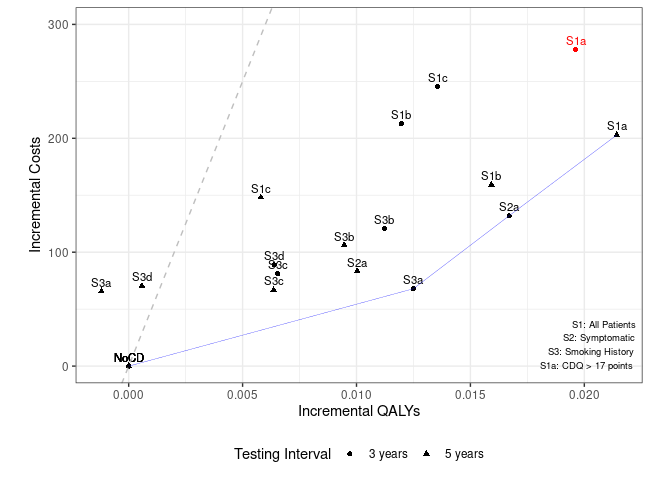
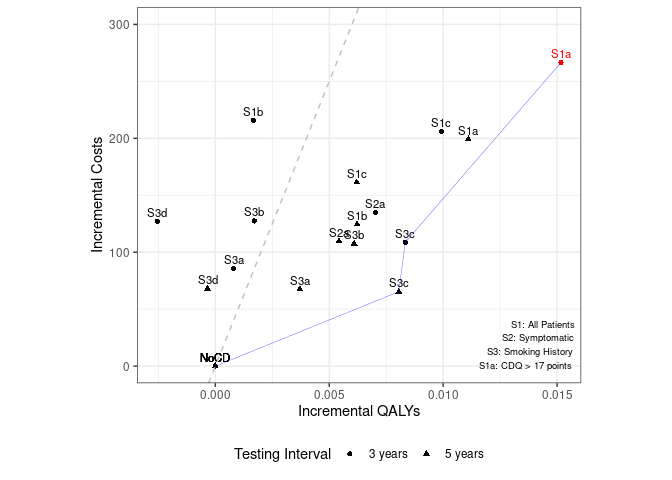
feat(reproduction): re-ran Process_Model_Results with 5e5 model results

diff --git a/reproduction/scripts/Process_Model_Results.md b/reproduction/scripts/Process_Model_Results.md
@@ -1,6 +1,6 @@
 Process Model Results
 ================
-06 September, 2024
+10 September, 2024
 
 This file processes the model results so they match up as closely as
 possible to those in the publication.
@@ -67,30 +67,30 @@ rbind(ceplane_3y, ceplane_5y) %>%
 
 <div class="kable-table">
 
-| Scenario  | Agents | PropAgents |       Cost | CostpAgent | CostpAgentExcluded | CostpAgentAll |    QALY | QALYpAgent | QALYpAgentExcluded | QALYpAgentAll | IncrementalCosts | IncrementalQALY |    ICERAdj |       ICER |        INMB | Interval |
-|:----------|-------:|-----------:|-----------:|-----------:|-------------------:|--------------:|--------:|-----------:|-------------------:|--------------:|-----------------:|----------------:|-----------:|-----------:|------------:|:---------|
-| S1NoCDAvg | 743240 |  1.0000000 | 1599466443 |   2152.020 |              0.000 |      2152.020 | 9319095 |   12.53848 |            0.00000 |      12.53848 |          0.00000 |       0.0000000 |         NA |         NA |    0.000000 | 3 years  |
-| S1NoCDAvg | 743240 |  1.0000000 | 1599466443 |   2152.020 |              0.000 |      2152.020 | 9319095 |   12.53848 |            0.00000 |      12.53848 |          0.00000 |       0.0000000 |         NA |         NA |    0.000000 | 5 years  |
-| S1a       | 743762 |  1.0000000 | 1807321435 |   2429.973 |              0.000 |      2429.973 | 9340234 |   12.55809 |            0.00000 |      12.55809 |        277.95257 |       0.0196138 |  14171.293 |  13791.124 |  702.736263 | 3 years  |
-| S1a       | 744354 |  1.0000000 | 1752926443 |   2354.963 |              0.000 |      2354.963 | 9349016 |   12.55991 |            0.00000 |      12.55991 |        202.94319 |       0.0214250 |   9472.245 |   9739.527 |  868.308574 | 5 years  |
-| S1b       | 744327 |  1.0000000 | 1760175403 |   2364.788 |              0.000 |      2364.788 | 9341640 |   12.55045 |            0.00000 |      12.55045 |        212.76756 |       0.0119708 |  17773.880 |  17035.376 |  385.772441 | 3 years  |
-| S1b       | 744122 |  1.0000000 | 1719863654 |   2311.266 |              0.000 |      2311.266 | 9342006 |   12.55440 |            0.00000 |      12.55440 |        159.24546 |       0.0159203 |  10002.688 |  10379.531 |  636.767913 | 5 years  |
-| S1c       | 744352 |  1.0000000 | 1784618220 |   2397.546 |              0.000 |      2397.546 | 9343139 |   12.55204 |            0.00000 |      12.55204 |        245.52585 |       0.0135630 |  18102.668 |  17438.189 |  432.622386 | 3 years  |
-| S1c       | 744408 |  1.0000000 | 1712210641 |   2300.097 |              0.000 |      2300.097 | 9338065 |   12.54428 |            0.00000 |      12.54428 |        148.07681 |       0.0058020 |  25521.605 |  27838.899 |  142.024090 | 5 years  |
-| S2NoCD    | 441551 |  0.5940894 | 1172222127 |   2654.783 |           1416.175 |      2152.019 | 5415116 |   12.26385 |           12.94041 |      12.53847 |          0.00000 |       0.0000000 |         NA |         NA |   -0.420303 | 3 years  |
-| S2NoCD    | 441928 |  0.5945966 | 1179924911 |   2669.948 |           1392.382 |      2152.019 | 5422979 |   12.27118 |           12.93050 |      12.53847 |          0.00000 |       0.0000000 |         NA |         NA |   -0.420303 | 5 years  |
-| S2a       | 441650 |  0.5942226 | 1270487699 |   2876.684 |           1416.175 |      2284.043 | 5428810 |   12.29211 |           12.94041 |      12.55517 |        132.02380 |       0.0167010 |   7905.166 |   7852.913 |  702.603533 | 3 years  |
-| S2a       | 441121 |  0.5935108 | 1240789795 |   2812.811 |           1392.382 |      2235.422 | 5419996 |   12.28687 |           12.93050 |      12.54850 |         83.40312 |       0.0100269 |   8317.911 |   9106.416 |  417.523169 | 5 years  |
-| S3NoCD    | 345450 |  0.4647893 | 1009751817 |   2923.004 |           1482.477 |      2152.019 | 3878935 |   11.22864 |           13.67596 |      12.53847 |          0.00000 |       0.0000000 |         NA |         NA |   -0.420303 | 3 years  |
-| S3NoCD    | 344713 |  0.4637977 |  996287204 |   2890.193 |           1513.522 |      2152.019 | 3873367 |   11.23650 |           13.66464 |      12.53847 |          0.00000 |       0.0000000 |         NA |         NA |   -0.420303 | 5 years  |
-| S3a       | 344340 |  0.4632958 | 1058616300 |   3074.334 |           1482.477 |      2219.978 | 3873043 |   11.24773 |           13.67596 |      12.55097 |         67.95925 |       0.0124963 |   5438.352 |   7929.873 |  556.435226 | 3 years  |
-| S3a       | 344831 |  0.4639565 | 1045268642 |   3031.249 |           1513.522 |      2217.681 | 3874091 |   11.23475 |           13.66464 |      12.53728 |         65.66229 |      -0.0011957 | -54917.558 | -80779.766 | -125.865199 | 5 years  |
-| S3b       | 344561 |  0.4635932 | 1098068656 |   3186.863 |           1482.477 |      2272.619 | 3875123 |   11.24655 |           13.67596 |      12.54970 |        120.60002 |       0.0112284 |  10740.594 |  14735.648 |  440.401243 | 3 years  |
-| S3b       | 344259 |  0.4631869 | 1074556989 |   3121.362 |           1513.522 |      2258.252 | 3874191 |   11.25371 |           13.66464 |      12.54793 |        106.23342 |       0.0094562 |  11234.316 |  13429.701 |  366.153959 | 5 years  |
-| S3c       | 345148 |  0.4643830 | 1069636233 |   3099.065 |           1482.477 |      2233.193 | 3879671 |   11.24060 |           13.67596 |      12.54502 |         81.17449 |       0.0065462 |  12400.176 |  14726.663 |  245.717029 | 3 years  |
-| S3c       | 344359 |  0.4633214 | 1045425869 |   3035.860 |           1513.522 |      2218.854 | 3873257 |   11.24773 |           13.66464 |      12.54483 |         66.83501 |       0.0063609 |  10507.238 |  12968.139 |  250.787397 | 5 years  |
-| S3d       | 344912 |  0.4640654 | 1075013391 |   3116.776 |           1482.477 |      2240.899 | 3876329 |   11.23860 |           13.67596 |      12.54487 |         88.87997 |       0.0063928 |  13903.144 |  19458.355 |  230.339544 | 3 years  |
-| S3d       | 343958 |  0.4627819 | 1047428798 |   3045.223 |           1513.522 |      2222.365 | 3863483 |   11.23243 |           13.66464 |      12.53905 |         70.34646 |       0.0005819 | 120887.662 | -38068.150 |  -41.670964 | 5 years  |
+| Scenario  | Agents | PropAgents |      Cost | CostpAgent | CostpAgentExcluded | CostpAgentAll |    QALY | QALYpAgent | QALYpAgentExcluded | QALYpAgentAll | IncrementalCosts | IncrementalQALY |     ICERAdj |       ICER |       INMB | Interval |
+|:----------|-------:|-----------:|----------:|-----------:|-------------------:|--------------:|--------:|-----------:|-------------------:|--------------:|-----------------:|----------------:|------------:|-----------:|-----------:|:---------|
+| S1NoCDAvg | 371714 |  1.0000000 | 800943990 |   2154.732 |              0.000 |      2154.732 | 4662659 |   12.54367 |            0.00000 |      12.54367 |          0.00000 |       0.0000000 |          NA |         NA |    0.00000 | 3 years  |
+| S1NoCDAvg | 371714 |  1.0000000 | 800943990 |   2154.732 |              0.000 |      2154.732 | 4662659 |   12.54367 |            0.00000 |      12.54367 |          0.00000 |       0.0000000 |          NA |         NA |    0.00000 | 5 years  |
+| S1a       | 371902 |  1.0000000 | 900481317 |   2421.287 |              0.000 |      2421.287 | 4670660 |   12.55885 |            0.00000 |      12.55885 |        266.55473 |       0.0151739 |   17566.697 |   16195.98 |  492.13863 | 3 years  |
+| S1a       | 371757 |  1.0000000 | 875098848 |   2353.954 |              0.000 |      2353.954 | 4667327 |   12.55478 |            0.00000 |      12.55478 |        199.22209 |       0.0111061 |   17938.013 |   20430.79 |  356.08493 | 5 years  |
+| S1b       | 372140 |  1.0000000 | 882188218 |   2370.582 |              0.000 |      2370.582 | 4668622 |   12.54534 |            0.00000 |      12.54534 |        215.84971 |       0.0016653 |  129616.173 |   67189.32 | -132.58475 | 3 years  |
+| S1b       | 372238 |  1.0000000 | 848458397 |   2279.344 |              0.000 |      2279.344 | 4671548 |   12.54989 |            0.00000 |      12.54989 |        124.61202 |       0.0062224 |   20026.206 |   25910.57 |  186.51036 | 5 years  |
+| S1c       | 371919 |  1.0000000 | 878053058 |   2360.872 |              0.000 |      2360.872 | 4668922 |   12.55360 |            0.00000 |      12.55360 |        206.13991 |       0.0099270 |   20765.538 |   18321.20 |  290.21108 | 3 years  |
+| S1c       | 371786 |  1.0000000 | 861061064 |   2316.013 |              0.000 |      2316.013 | 4665869 |   12.54988 |            0.00000 |      12.54988 |        161.28077 |       0.0062057 |   25989.087 |   34018.45 |  149.00479 | 5 years  |
+| S2NoCD    | 219759 |  0.5912045 | 592355610 |   2695.478 |           1372.698 |      2154.732 | 2696622 |   12.27081 |           12.93828 |      12.54367 |          0.00000 |       0.0000000 |          NA |         NA |    0.00000 | 3 years  |
+| S2NoCD    | 220397 |  0.5929209 | 590082859 |   2677.363 |           1393.506 |      2154.732 | 2704639 |   12.27167 |           12.93985 |      12.54367 |          0.00000 |       0.0000000 |          NA |         NA |    0.00000 | 5 years  |
+| S2a       | 221233 |  0.5951699 | 644478701 |   2913.122 |           1372.698 |      2289.512 | 2718304 |   12.28707 |           12.93828 |      12.55070 |        134.78032 |       0.0070259 |   19183.268 |   13391.77 |  216.51625 | 3 years  |
+| S2a       | 220997 |  0.5945350 | 631718348 |   2858.493 |           1393.506 |      2264.492 | 2714422 |   12.28262 |           12.93985 |      12.54910 |        109.76015 |       0.0054317 |   20207.186 |   16541.19 |  161.82679 | 5 years  |
+| S3NoCD    | 172154 |  0.4631356 | 494403150 |   2871.866 |           1536.084 |      2154.732 | 1934054 |   11.23444 |           13.67310 |      12.54367 |          0.00000 |       0.0000000 |          NA |         NA |    0.00000 | 3 years  |
+| S3NoCD    | 172607 |  0.4643543 | 500398655 |   2899.064 |           1509.466 |      2154.732 | 1937979 |   11.22769 |           13.68450 |      12.54367 |          0.00000 |       0.0000000 |          NA |         NA |    0.00000 | 5 years  |
+| S3a       | 172660 |  0.4644969 | 527017592 |   3052.343 |           1536.084 |      2240.382 | 1941269 |   11.24331 |           13.67310 |      12.54447 |         85.64968 |       0.0007989 |  107210.069 |   20354.54 |  -45.70489 | 3 years  |
+| S3a       | 172800 |  0.4648735 | 525843604 |   3043.076 |           1509.466 |      2222.401 | 1941999 |   11.23842 |           13.68450 |      12.54738 |         67.66929 |       0.0037114 |   18232.598 |   13424.30 |  117.90297 | 5 years  |
+| S3b       | 172336 |  0.4636253 | 542053886 |   3145.332 |           1536.084 |      2282.172 | 1937179 |   11.24071 |           13.67310 |      12.54539 |        127.43983 |       0.0017135 |   74374.400 |   43606.19 |  -41.76530 | 3 years  |
+| S3b       | 172689 |  0.4645749 | 540529545 |   3130.075 |           1509.466 |      2262.361 | 1941365 |   11.24197 |           13.68450 |      12.54976 |        107.62875 |       0.0060916 |   17668.318 |   16178.59 |  196.95245 | 5 years  |
+| S3c       | 172314 |  0.4635661 | 535046632 |   3105.068 |           1536.084 |      2263.411 | 1939341 |   11.25469 |           13.67310 |      12.55201 |        108.67955 |       0.0083369 |   13035.890 |   11516.85 |  308.16789 | 3 years  |
+| S3c       | 172313 |  0.4635634 | 524243526 |   3042.391 |           1509.466 |      2220.074 | 1936949 |   11.24088 |           13.68450 |      12.55173 |         65.34232 |       0.0080535 |    8113.511 |   10873.57 |  337.33362 | 5 years  |
+| S3d       | 172882 |  0.4650941 | 542727747 |   3139.296 |           1536.084 |      2281.728 | 1943060 |   11.23922 |           13.67310 |      12.54112 |        126.99637 |      -0.0025512 |  -49778.541 |   55904.12 | -254.55773 | 3 years  |
+| S3d       | 172648 |  0.4644646 | 525750686 |   3045.217 |           1509.466 |      2222.768 | 1938413 |   11.22755 |           13.68450 |      12.54333 |         68.03656 |      -0.0003403 | -199908.462 | -978806.42 |  -85.05349 | 5 years  |
 
 </div>
 
@@ -113,25 +113,25 @@ ceplane %>% arrange(Scenario)
 
 <div class="kable-table">
 
-| Scenario  | Agents | PropAgents |       Cost | CostpAgent | CostpAgentExcluded | CostpAgentAll |    QALY | QALYpAgent | QALYpAgentExcluded | QALYpAgentAll | IncrementalCosts | IncrementalQALY |    ICERAdj |       ICER |       INMB | Interval | Ranking |
-|:----------|-------:|-----------:|-----------:|-----------:|-------------------:|--------------:|--------:|-----------:|-------------------:|--------------:|-----------------:|----------------:|-----------:|-----------:|-----------:|:---------|--------:|
-| S1NoCDAvg | 743240 |  1.0000000 | 1599466443 |   2152.020 |              0.000 |      2152.020 | 9319095 |   12.53848 |            0.00000 |      12.53848 |          0.00000 |       0.0000000 |         NA |         NA |         NA | NA       |      NA |
-| S1a       | 743762 |  1.0000000 | 1807321435 |   2429.973 |              0.000 |      2429.973 | 9340234 |   12.55809 |            0.00000 |      12.55809 |        277.95257 |       0.0196138 |  14171.293 |  13791.124 |  702.73626 | 3 years  |       2 |
-| S1a       | 744354 |  1.0000000 | 1752926443 |   2354.963 |              0.000 |      2354.963 | 9349016 |   12.55991 |            0.00000 |      12.55991 |        202.94319 |       0.0214250 |   9472.245 |   9739.527 |  868.30857 | 5 years  |       1 |
-| S1b       | 744327 |  1.0000000 | 1760175403 |   2364.788 |              0.000 |      2364.788 | 9341640 |   12.55045 |            0.00000 |      12.55045 |        212.76756 |       0.0119708 |  17773.880 |  17035.376 |  385.77244 | 3 years  |       9 |
-| S1b       | 744122 |  1.0000000 | 1719863654 |   2311.266 |              0.000 |      2311.266 | 9342006 |   12.55440 |            0.00000 |      12.55440 |        159.24546 |       0.0159203 |  10002.688 |  10379.531 |  636.76791 | 5 years  |       4 |
-| S1c       | 744352 |  1.0000000 | 1784618220 |   2397.546 |              0.000 |      2397.546 | 9343139 |   12.55204 |            0.00000 |      12.55204 |        245.52585 |       0.0135630 |  18102.668 |  17438.189 |  432.62239 | 3 years  |       7 |
-| S1c       | 744408 |  1.0000000 | 1712210641 |   2300.097 |              0.000 |      2300.097 | 9338065 |   12.54428 |            0.00000 |      12.54428 |        148.07681 |       0.0058020 |  25521.605 |  27838.899 |  142.02409 | 5 years  |      14 |
-| S2a       | 441650 |  0.5942226 | 1270487699 |   2876.684 |           1416.175 |      2284.043 | 5428810 |   12.29211 |           12.94041 |      12.55517 |        132.02380 |       0.0167010 |   7905.166 |   7852.913 |  702.60353 | 3 years  |       3 |
-| S2a       | 441121 |  0.5935108 | 1240789795 |   2812.811 |           1392.382 |      2235.422 | 5419996 |   12.28687 |           12.93050 |      12.54850 |         83.40312 |       0.0100269 |   8317.911 |   9106.416 |  417.52317 | 5 years  |       8 |
-| S3a       | 344340 |  0.4632958 | 1058616300 |   3074.334 |           1482.477 |      2219.978 | 3873043 |   11.24773 |           13.67596 |      12.55097 |         67.95925 |       0.0124963 |   5438.352 |   7929.873 |  556.43523 | 3 years  |       5 |
-| S3a       | 344831 |  0.4639565 | 1045268642 |   3031.249 |           1513.522 |      2217.681 | 3874091 |   11.23475 |           13.66464 |      12.53728 |         65.66229 |      -0.0011957 | -54917.558 | -80779.766 | -125.86520 | 5 years  |      16 |
-| S3b       | 344561 |  0.4635932 | 1098068656 |   3186.863 |           1482.477 |      2272.619 | 3875123 |   11.24655 |           13.67596 |      12.54970 |        120.60002 |       0.0112284 |  10740.594 |  14735.648 |  440.40124 | 3 years  |       6 |
-| S3b       | 344259 |  0.4631869 | 1074556989 |   3121.362 |           1513.522 |      2258.252 | 3874191 |   11.25371 |           13.66464 |      12.54793 |        106.23342 |       0.0094562 |  11234.316 |  13429.701 |  366.15396 | 5 years  |      10 |
-| S3c       | 345148 |  0.4643830 | 1069636233 |   3099.065 |           1482.477 |      2233.193 | 3879671 |   11.24060 |           13.67596 |      12.54502 |         81.17449 |       0.0065462 |  12400.176 |  14726.663 |  245.71703 | 3 years  |      12 |
-| S3c       | 344359 |  0.4633214 | 1045425869 |   3035.860 |           1513.522 |      2218.854 | 3873257 |   11.24773 |           13.66464 |      12.54483 |         66.83501 |       0.0063609 |  10507.238 |  12968.139 |  250.78740 | 5 years  |      11 |
-| S3d       | 344912 |  0.4640654 | 1075013391 |   3116.776 |           1482.477 |      2240.899 | 3876329 |   11.23860 |           13.67596 |      12.54487 |         88.87997 |       0.0063928 |  13903.144 |  19458.355 |  230.33954 | 3 years  |      13 |
-| S3d       | 343958 |  0.4627819 | 1047428798 |   3045.223 |           1513.522 |      2222.365 | 3863483 |   11.23243 |           13.66464 |      12.53905 |         70.34646 |       0.0005819 | 120887.662 | -38068.150 |  -41.67096 | 5 years  |      15 |
+| Scenario  | Agents | PropAgents |      Cost | CostpAgent | CostpAgentExcluded | CostpAgentAll |    QALY | QALYpAgent | QALYpAgentExcluded | QALYpAgentAll | IncrementalCosts | IncrementalQALY |     ICERAdj |       ICER |       INMB | Interval | Ranking |
+|:----------|-------:|-----------:|----------:|-----------:|-------------------:|--------------:|--------:|-----------:|-------------------:|--------------:|-----------------:|----------------:|------------:|-----------:|-----------:|:---------|--------:|
+| S1NoCDAvg | 371714 |  1.0000000 | 800943990 |   2154.732 |              0.000 |      2154.732 | 4662659 |   12.54367 |            0.00000 |      12.54367 |          0.00000 |       0.0000000 |          NA |         NA |         NA | NA       |      NA |
+| S1a       | 371902 |  1.0000000 | 900481317 |   2421.287 |              0.000 |      2421.287 | 4670660 |   12.55885 |            0.00000 |      12.55885 |        266.55473 |       0.0151739 |   17566.697 |   16195.98 |  492.13863 | 3 years  |       1 |
+| S1a       | 371757 |  1.0000000 | 875098848 |   2353.954 |              0.000 |      2353.954 | 4667327 |   12.55478 |            0.00000 |      12.55478 |        199.22209 |       0.0111061 |   17938.013 |   20430.79 |  356.08493 | 5 years  |       2 |
+| S1b       | 372140 |  1.0000000 | 882188218 |   2370.582 |              0.000 |      2370.582 | 4668622 |   12.54534 |            0.00000 |      12.54534 |        215.84971 |       0.0016653 |  129616.173 |   67189.32 | -132.58475 | 3 years  |      15 |
+| S1b       | 372238 |  1.0000000 | 848458397 |   2279.344 |              0.000 |      2279.344 | 4671548 |   12.54989 |            0.00000 |      12.54989 |        124.61202 |       0.0062224 |   20026.206 |   25910.57 |  186.51036 | 5 years  |       8 |
+| S1c       | 371919 |  1.0000000 | 878053058 |   2360.872 |              0.000 |      2360.872 | 4668922 |   12.55360 |            0.00000 |      12.55360 |        206.13991 |       0.0099270 |   20765.538 |   18321.20 |  290.21108 | 3 years  |       5 |
+| S1c       | 371786 |  1.0000000 | 861061064 |   2316.013 |              0.000 |      2316.013 | 4665869 |   12.54988 |            0.00000 |      12.54988 |        161.28077 |       0.0062057 |   25989.087 |   34018.45 |  149.00479 | 5 years  |      10 |
+| S2a       | 221233 |  0.5951699 | 644478701 |   2913.122 |           1372.698 |      2289.512 | 2718304 |   12.28707 |           12.93828 |      12.55070 |        134.78032 |       0.0070259 |   19183.268 |   13391.77 |  216.51625 | 3 years  |       6 |
+| S2a       | 220997 |  0.5945350 | 631718348 |   2858.493 |           1393.506 |      2264.492 | 2714422 |   12.28262 |           12.93985 |      12.54910 |        109.76015 |       0.0054317 |   20207.186 |   16541.19 |  161.82679 | 5 years  |       9 |
+| S3a       | 172660 |  0.4644969 | 527017592 |   3052.343 |           1536.084 |      2240.382 | 1941269 |   11.24331 |           13.67310 |      12.54447 |         85.64968 |       0.0007989 |  107210.069 |   20354.54 |  -45.70489 | 3 years  |      13 |
+| S3a       | 172800 |  0.4648735 | 525843604 |   3043.076 |           1509.466 |      2222.401 | 1941999 |   11.23842 |           13.68450 |      12.54738 |         67.66929 |       0.0037114 |   18232.598 |   13424.30 |  117.90297 | 5 years  |      11 |
+| S3b       | 172336 |  0.4636253 | 542053886 |   3145.332 |           1536.084 |      2282.172 | 1937179 |   11.24071 |           13.67310 |      12.54539 |        127.43983 |       0.0017135 |   74374.400 |   43606.19 |  -41.76530 | 3 years  |      12 |
+| S3b       | 172689 |  0.4645749 | 540529545 |   3130.075 |           1509.466 |      2262.361 | 1941365 |   11.24197 |           13.68450 |      12.54976 |        107.62875 |       0.0060916 |   17668.318 |   16178.59 |  196.95245 | 5 years  |       7 |
+| S3c       | 172314 |  0.4635661 | 535046632 |   3105.068 |           1536.084 |      2263.411 | 1939341 |   11.25469 |           13.67310 |      12.55201 |        108.67955 |       0.0083369 |   13035.890 |   11516.85 |  308.16789 | 3 years  |       4 |
+| S3c       | 172313 |  0.4635634 | 524243526 |   3042.391 |           1509.466 |      2220.074 | 1936949 |   11.24088 |           13.68450 |      12.55173 |         65.34232 |       0.0080535 |    8113.511 |   10873.57 |  337.33362 | 5 years  |       3 |
+| S3d       | 172882 |  0.4650941 | 542727747 |   3139.296 |           1536.084 |      2281.728 | 1943060 |   11.23922 |           13.67310 |      12.54112 |        126.99637 |      -0.0025512 |  -49778.541 |   55904.12 | -254.55773 | 3 years  |      16 |
+| S3d       | 172648 |  0.4644646 | 525750686 |   3045.217 |           1509.466 |      2222.768 | 1938413 |   11.22755 |           13.68450 |      12.54333 |         68.03656 |      -0.0003403 | -199908.462 | -978806.42 |  -85.05349 | 5 years  |      14 |
 
 </div>
 
@@ -174,25 +174,25 @@ ceplane_pretty
 
 <div class="kable-table">
 
-| Scenario                         | Testing interval | Costs per patient | QALYs per patient |   ICER | INMB (ranking) |
-|:---------------------------------|:-----------------|:------------------|------------------:|-------:|:---------------|
-| S0: No case detection            | NA               | \$2152            |            12.538 |     NA | NA             |
-| (S1a) CDQ ≥ 17 points            | 3 years          | \$2430            |            12.558 |  14171 | 703(2)         |
-| (S1a) CDQ ≥ 17 points            | 5 years          | \$2355            |            12.560 |   9472 | 868(1)         |
-| (S1b) Screening spirometry       | 3 years          | \$2365            |            12.550 |  17774 | 386(9)         |
-| (S1b) Screening spirometry       | 5 years          | \$2311            |            12.554 |  10003 | 637(4)         |
-| (S1c) CDQ + screening spirometry | 3 years          | \$2398            |            12.552 |  18103 | 433(7)         |
-| (S1c) CDQ + screening spirometry | 5 years          | \$2300            |            12.544 |  25522 | 142(14)        |
-| (S2a) Screening spirometry       | 3 years          | \$2284            |            12.555 |   7905 | 703(3)         |
-| (S2a) Screening spirometry       | 5 years          | \$2235            |            12.548 |   8318 | 418(8)         |
-| (S3a) CDQ ≥ 19.5 points          | 3 years          | \$2220            |            12.551 |   5438 | 556(5)         |
-| (S3a) CDQ ≥ 19.5 points          | 5 years          | \$2218            |            12.537 | -54918 | -126(16)       |
-| (S3b) CDQ ≥ 16.5 points          | 3 years          | \$2273            |            12.550 |  10741 | 440(6)         |
-| (S3b) CDQ ≥ 16.5 points          | 5 years          | \$2258            |            12.548 |  11234 | 366(10)        |
-| (S3c) Screening spirometry       | 3 years          | \$2233            |            12.545 |  12400 | 246(12)        |
-| (S3c) Screening spirometry       | 5 years          | \$2219            |            12.545 |  10507 | 251(11)        |
-| (S3d) CDQ + screening spirometry | 3 years          | \$2241            |            12.545 |  13903 | 230(13)        |
-| (S3d) CDQ + screening spirometry | 5 years          | \$2222            |            12.539 | 120888 | -42(15)        |
+| Scenario                         | Testing interval | Costs per patient | QALYs per patient |    ICER | INMB (ranking) |
+|:---------------------------------|:-----------------|:------------------|------------------:|--------:|:---------------|
+| S0: No case detection            | NA               | \$2155            |            12.544 |      NA | NA             |
+| (S1a) CDQ ≥ 17 points            | 3 years          | \$2421            |            12.559 |   17567 | 492(1)         |
+| (S1a) CDQ ≥ 17 points            | 5 years          | \$2354            |            12.555 |   17938 | 356(2)         |
+| (S1b) Screening spirometry       | 3 years          | \$2371            |            12.545 |  129616 | -133(15)       |
+| (S1b) Screening spirometry       | 5 years          | \$2279            |            12.550 |   20026 | 187(8)         |
+| (S1c) CDQ + screening spirometry | 3 years          | \$2361            |            12.554 |   20766 | 290(5)         |
+| (S1c) CDQ + screening spirometry | 5 years          | \$2316            |            12.550 |   25989 | 149(10)        |
+| (S2a) Screening spirometry       | 3 years          | \$2290            |            12.551 |   19183 | 217(6)         |
+| (S2a) Screening spirometry       | 5 years          | \$2264            |            12.549 |   20207 | 162(9)         |
+| (S3a) CDQ ≥ 19.5 points          | 3 years          | \$2240            |            12.544 |  107210 | -46(13)        |
+| (S3a) CDQ ≥ 19.5 points          | 5 years          | \$2222            |            12.547 |   18233 | 118(11)        |
+| (S3b) CDQ ≥ 16.5 points          | 3 years          | \$2282            |            12.545 |   74374 | -42(12)        |
+| (S3b) CDQ ≥ 16.5 points          | 5 years          | \$2262            |            12.550 |   17668 | 197(7)         |
+| (S3c) Screening spirometry       | 3 years          | \$2263            |            12.552 |   13036 | 308(4)         |
+| (S3c) Screening spirometry       | 5 years          | \$2220            |            12.552 |    8114 | 337(3)         |
+| (S3d) CDQ + screening spirometry | 3 years          | \$2282            |            12.541 |  -49779 | -255(16)       |
+| (S3d) CDQ + screening spirometry | 5 years          | \$2223            |            12.543 | -199908 | -85(14)        |
 
 </div>
 
@@ -246,9 +246,9 @@ frontier
 | Scenario | IncrementalCosts | IncrementalQALY |
 |:---------|-----------------:|----------------:|
 | NoCD     |          0.00000 |       0.0000000 |
-| S3a      |         67.95925 |       0.0124963 |
-| S2a      |        132.02380 |       0.0167010 |
-| S1a      |        202.94319 |       0.0214250 |
+| S3c      |         65.34232 |       0.0080535 |
+| S3c      |        108.67955 |       0.0083369 |
+| S1a      |        266.55473 |       0.0151739 |
 
 </div>
 
@@ -433,6 +433,8 @@ p3 <- ggplot(ap6_df, aes(x=Scenario, y=DiagnosedPYs, fill=Scenario)) +
 ap6_df <- s1_scen %>%
   # Get the relevant scenarios
   filter(Scenario %in% c("Case Detection", "No Case Detection")) %>%
+  # Adjust
+  mutate(across(c(SABA, LAMA, LAMALABA, ICSLAMALABA), ~ . * 2000)) %>%
   # Tidy and make long format for plotting
   select(Scenario, SABA, LAMA, LAMALABA, ICSLAMALABA) %>%
   tidyr::pivot_longer(cols=-Scenario, names_to="Group", values_to="Years") %>%
